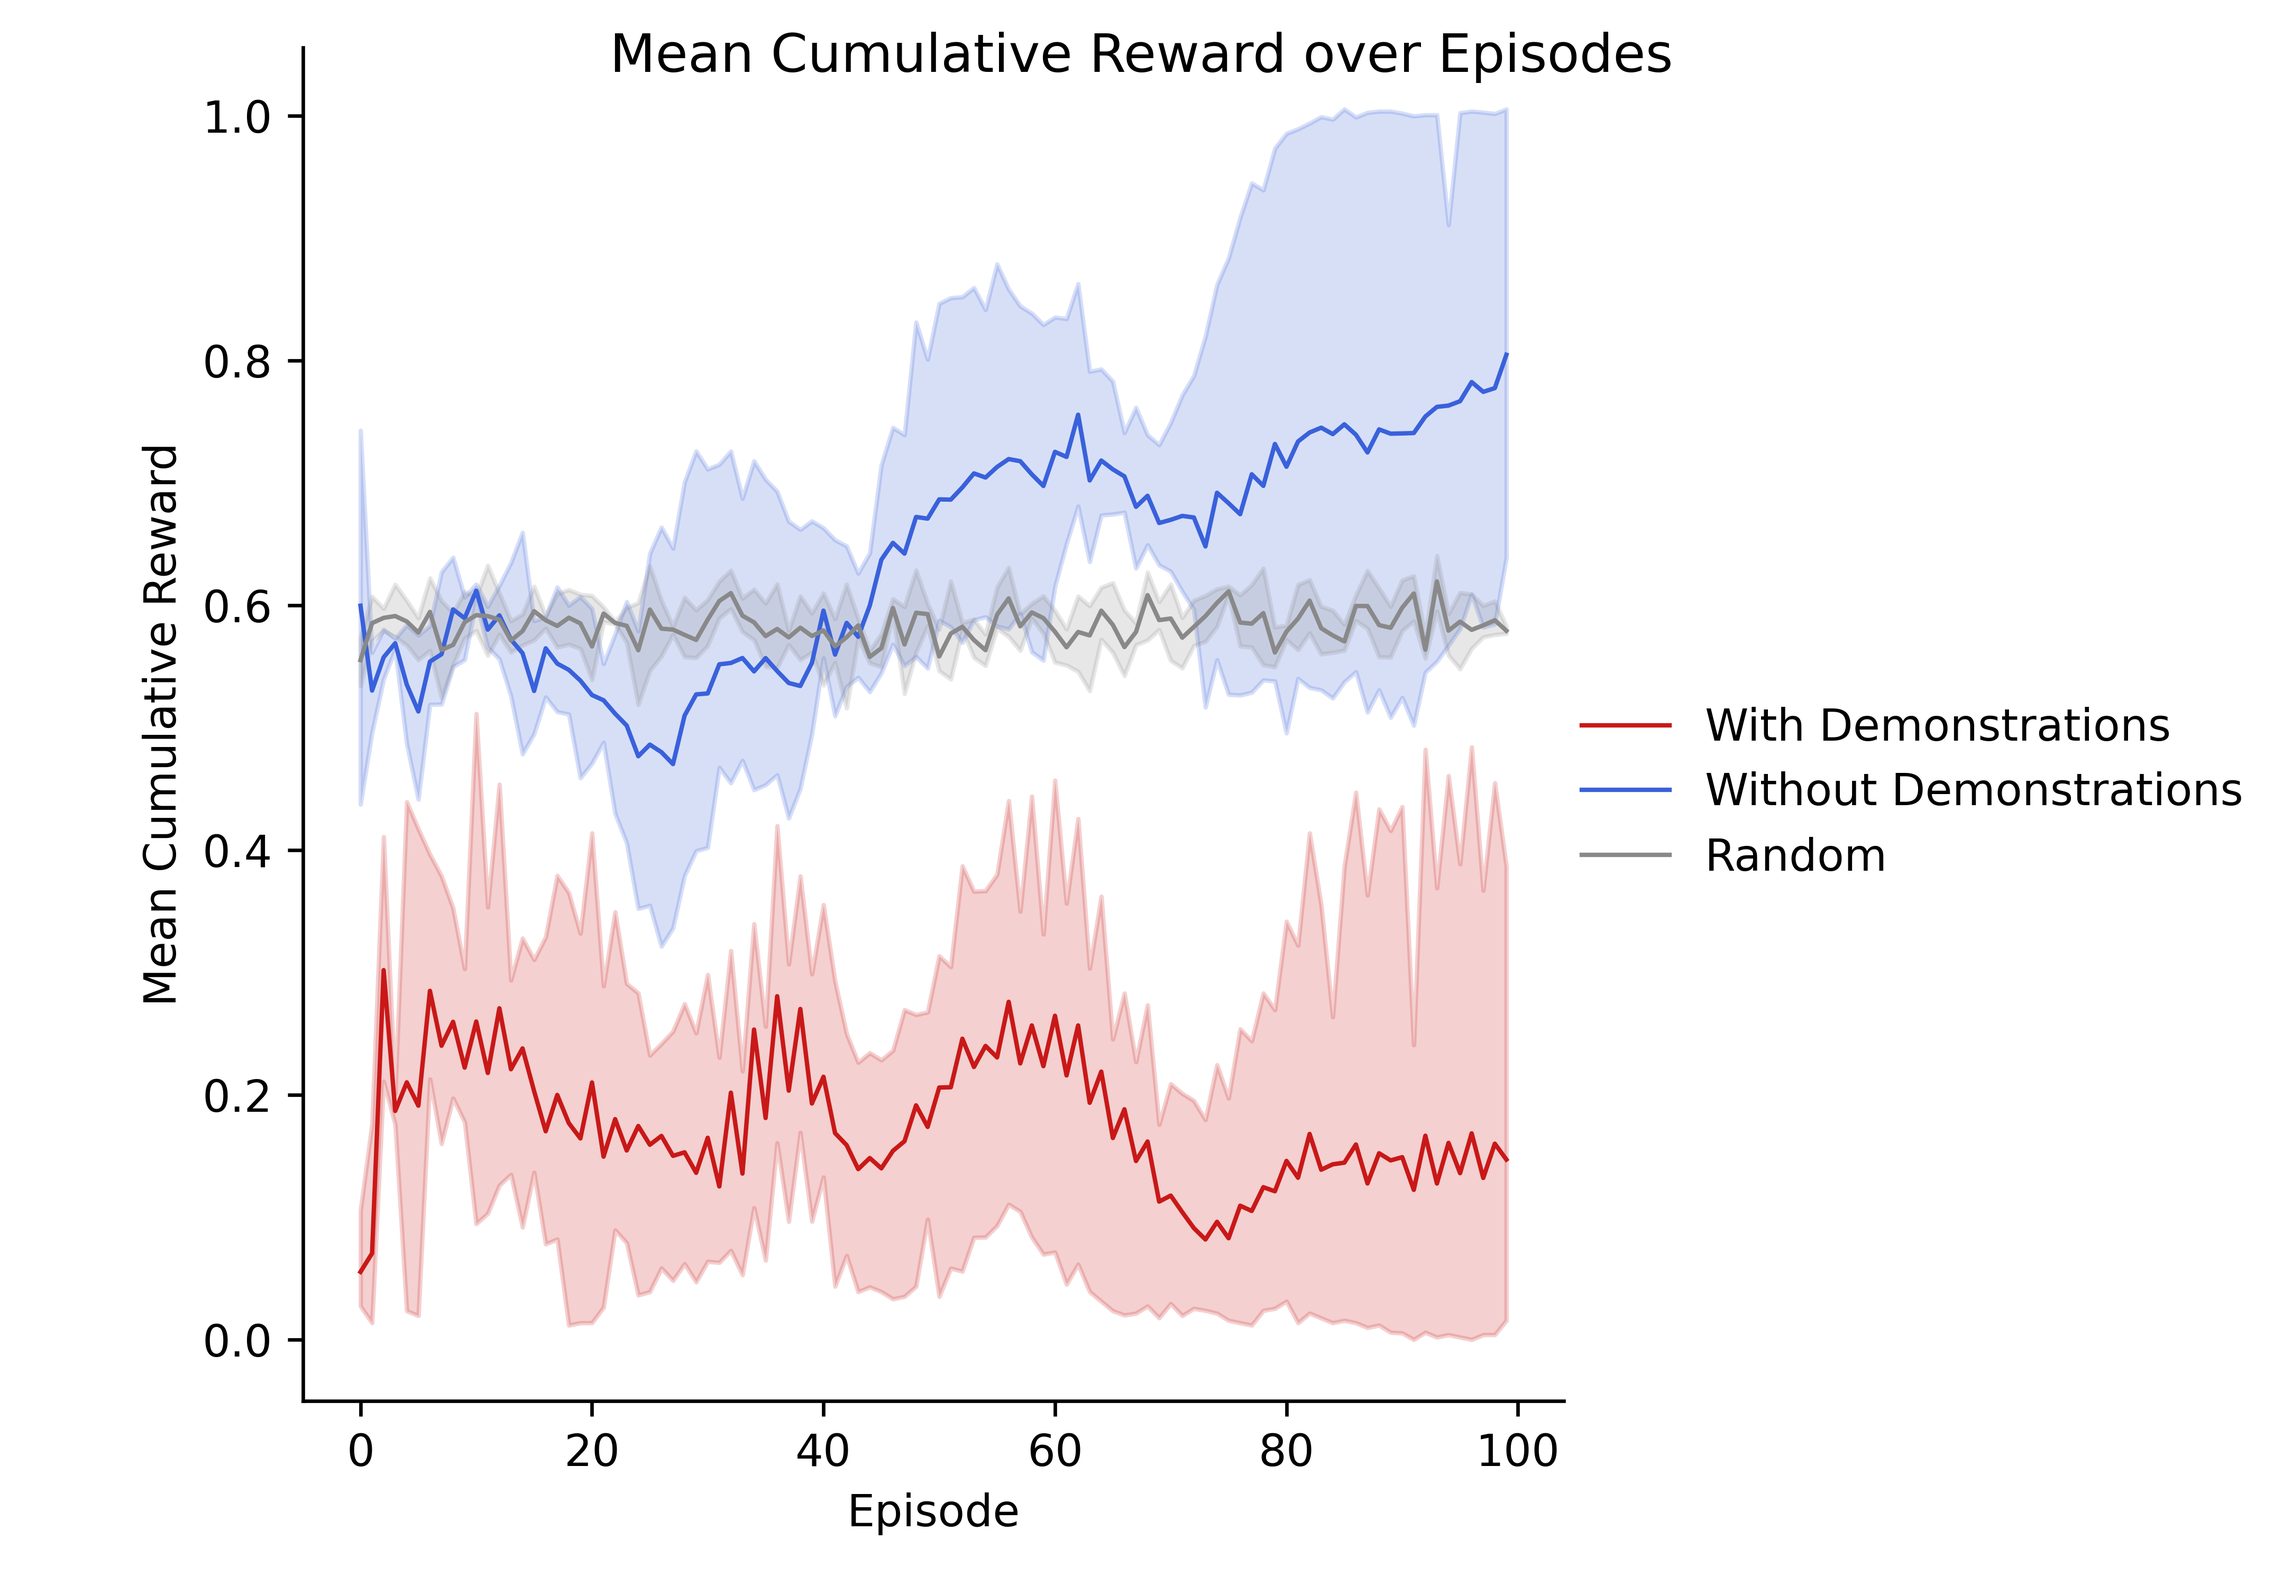
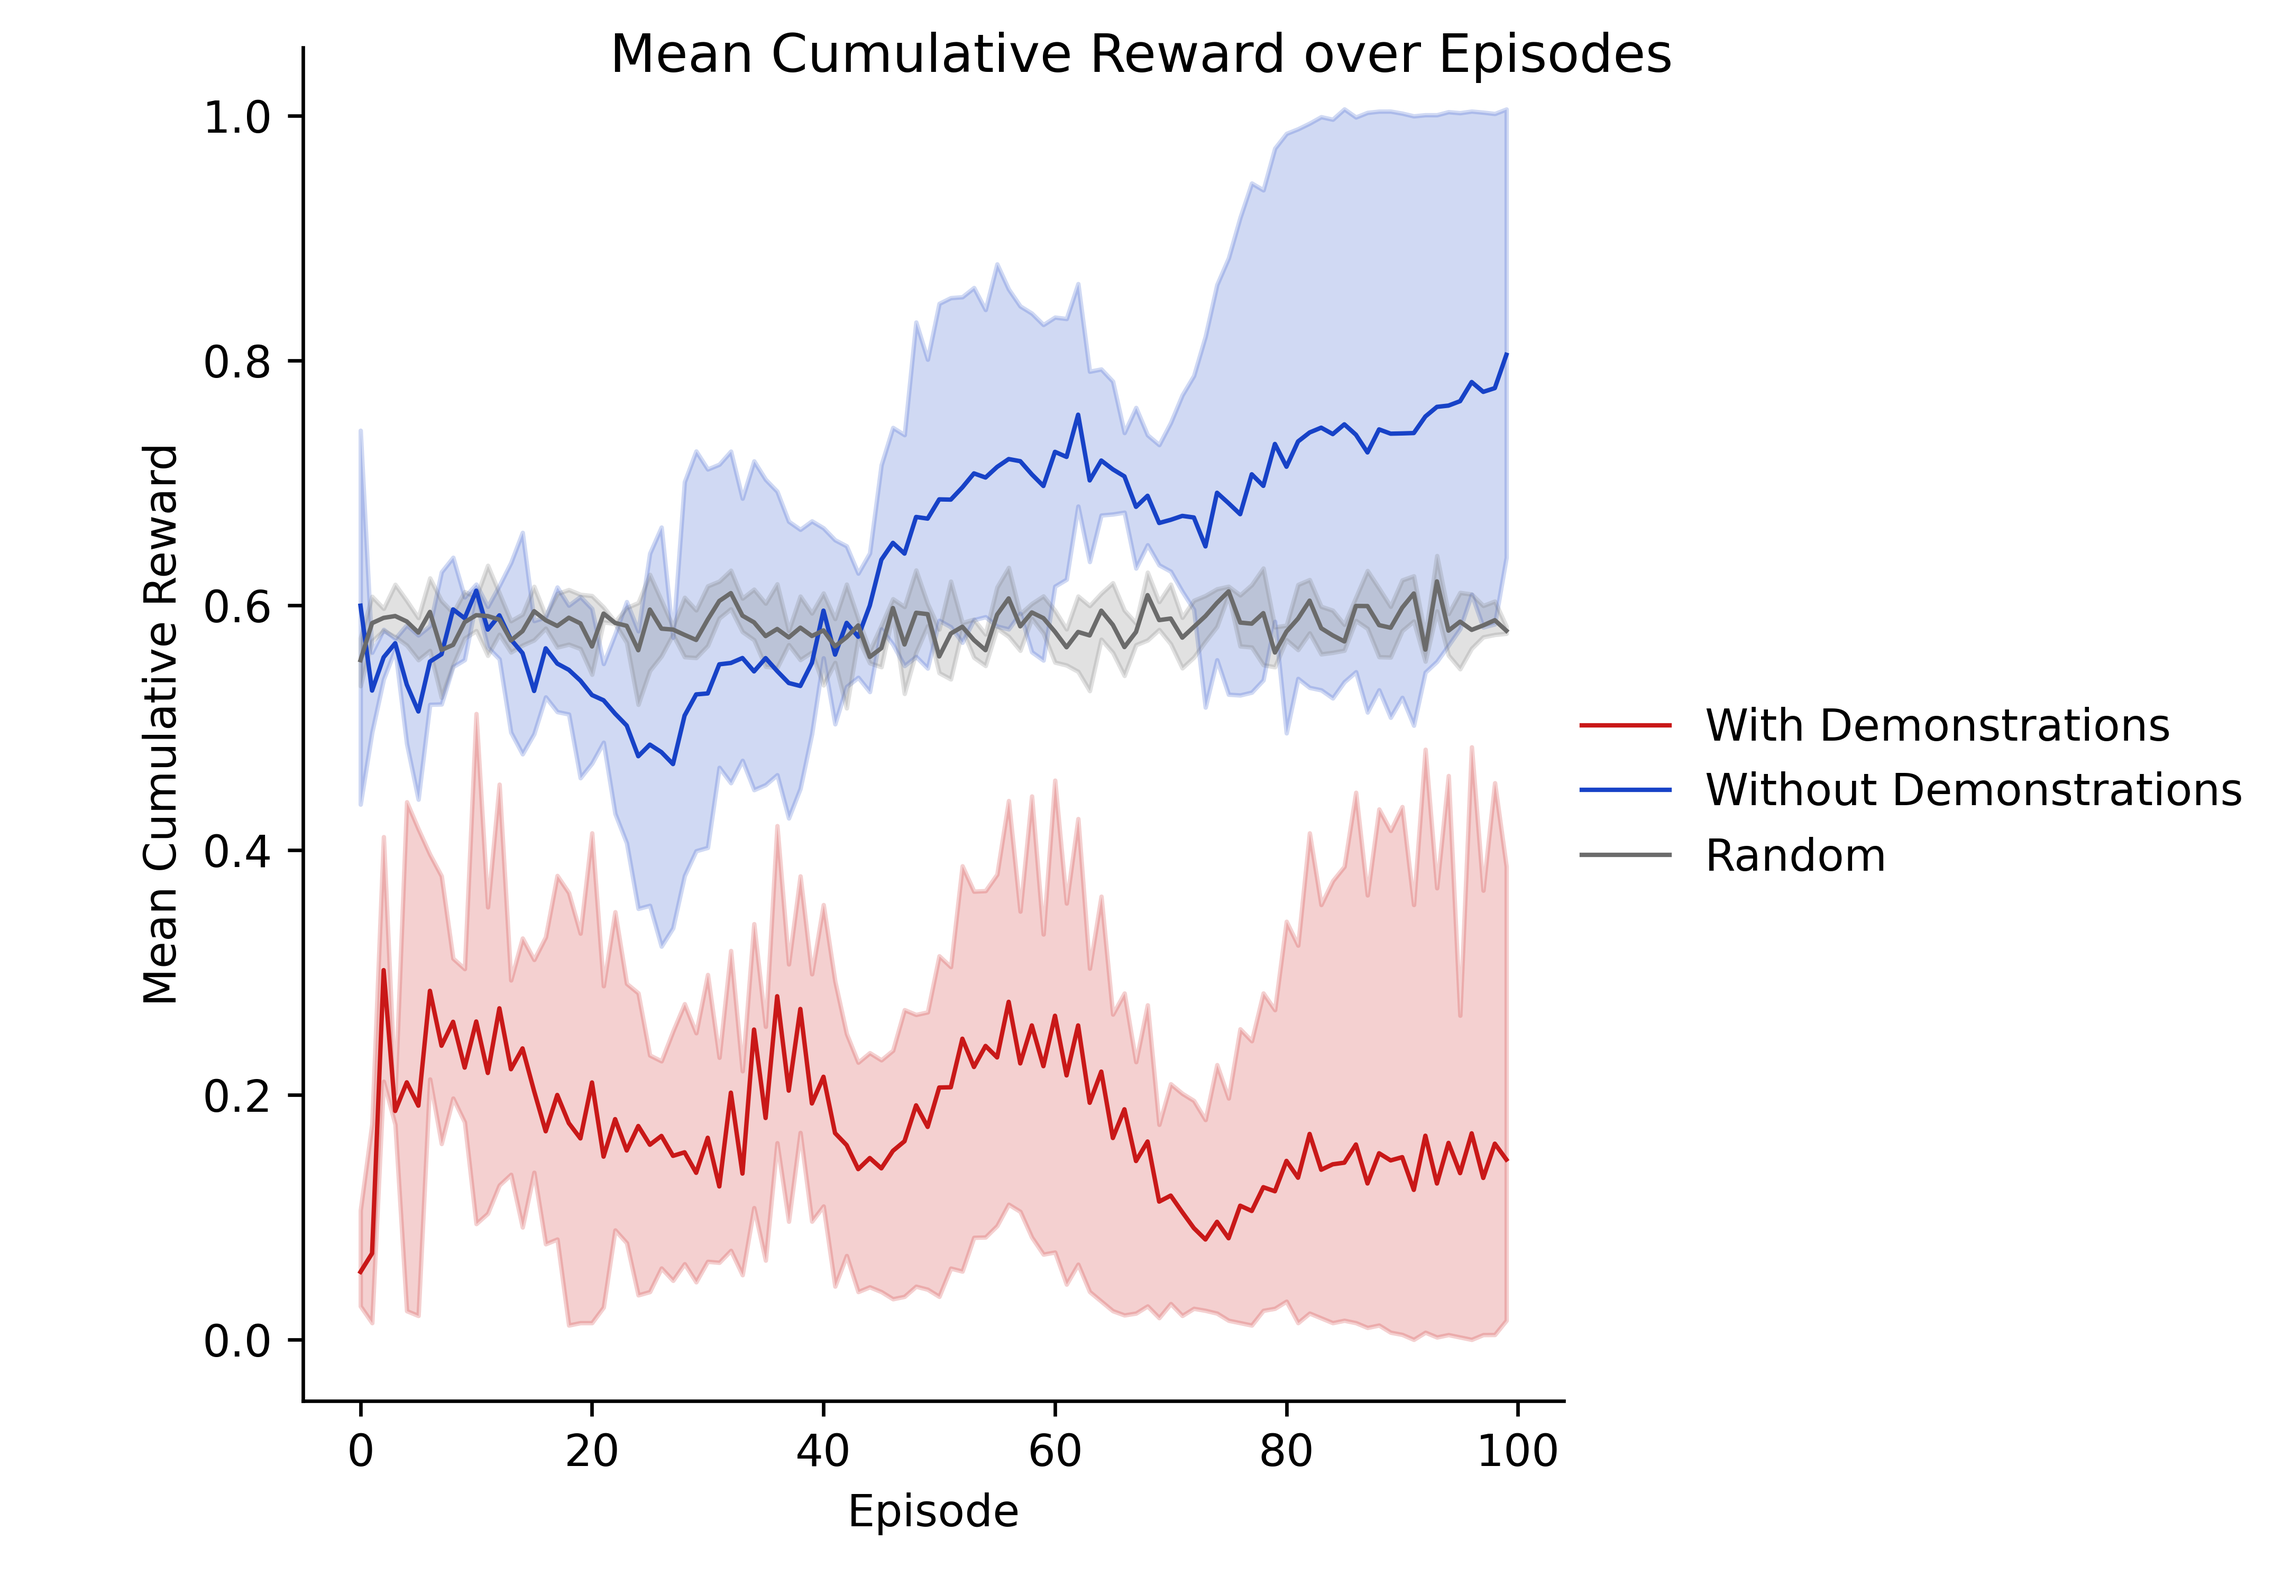
Changed graph colours

diff --git a/gen_rl_graphs/gen_rl_graphs.py b/gen_rl_graphs/gen_rl_graphs.py
@@ -56,7 +56,7 @@ def show_plot(
     plot = sns.relplot(
         data=df,
         kind='line',
-        palette=['#c91818', '#3961db', '#898989',],
+        palette=['#c91818', '#1742c7', '#6b6b6b',],
         linewidth=1.0,
         dashes={
             'With Demonstrations': '',
